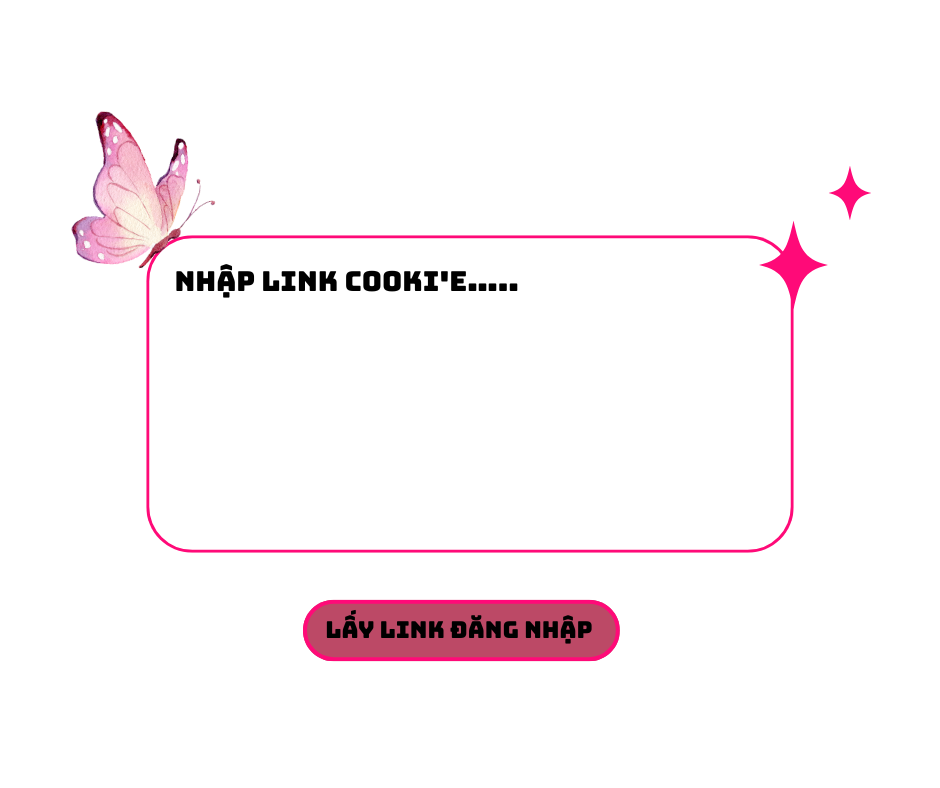
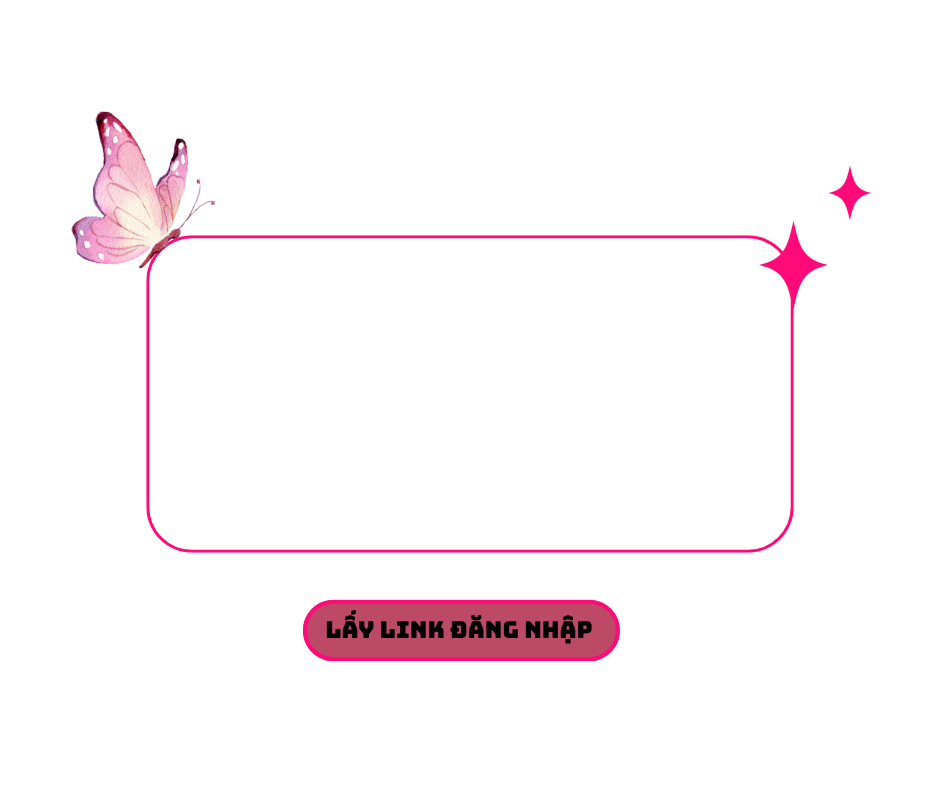
Fix textarea: contain inside input-box, no overflow, hidden scrollbar

Changed region(s): [[0.1851, 0.335, 0.5553, 0.3959]]

diff --git a/index.html b/index.html
@@ -66,14 +66,23 @@
       border:none;
       outline:none;
       resize:none;
+      overflow:hidden;
+      overflow-y:auto;
+      overflow-x:hidden;
+      word-break:break-all;
+      word-wrap:break-word;
+      white-space:pre-wrap;
       font-family:'Baloo 2','Arial Black',sans-serif;
       font-size:clamp(.72rem,3vw,.88rem);
       font-weight:700;
       color:#1a1a1a;
       line-height:1.65;
       z-index:10;
-      padding:6px 4px;
+      padding:6px 8px;
+      scrollbar-width:none;
+      -ms-overflow-style:none;
     }
+    .cookie-area::-webkit-scrollbar{display:none}
     .cookie-area::placeholder{
       color:#2a2a2a;
       font-weight:700;